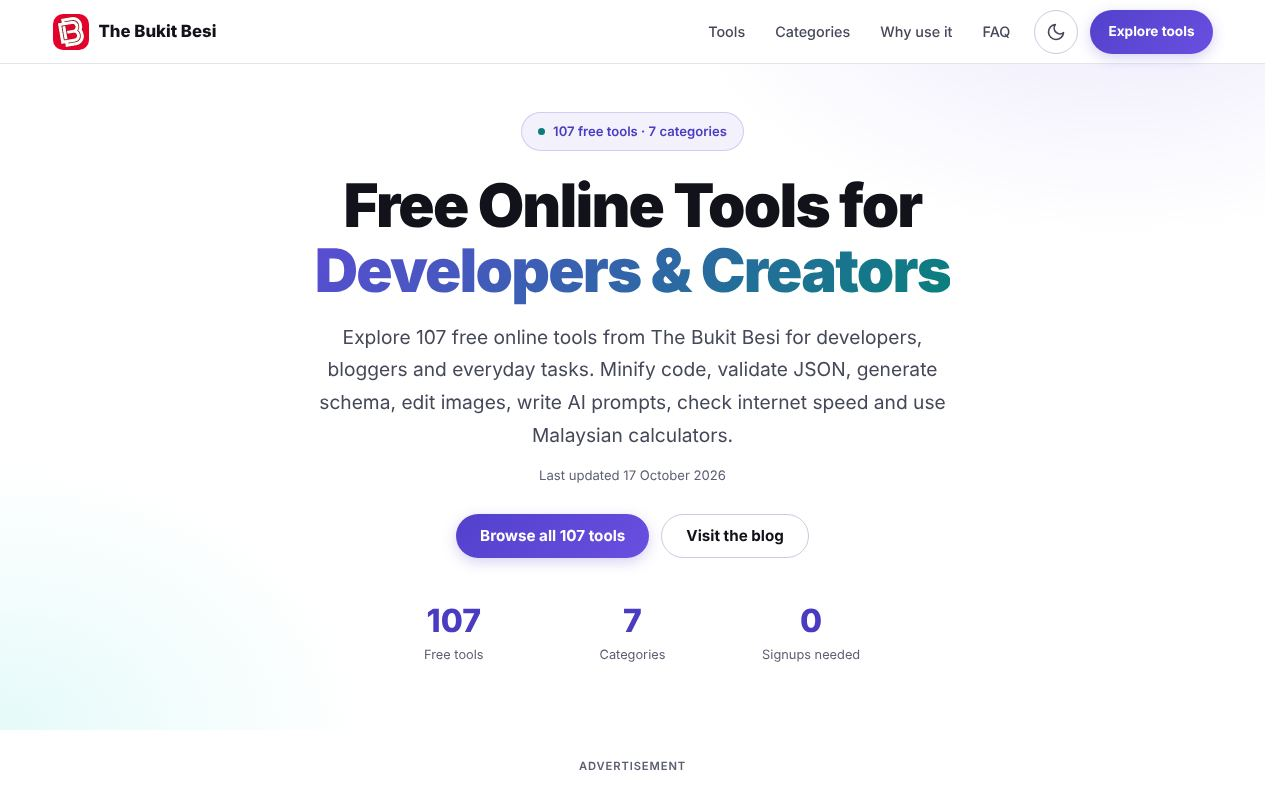
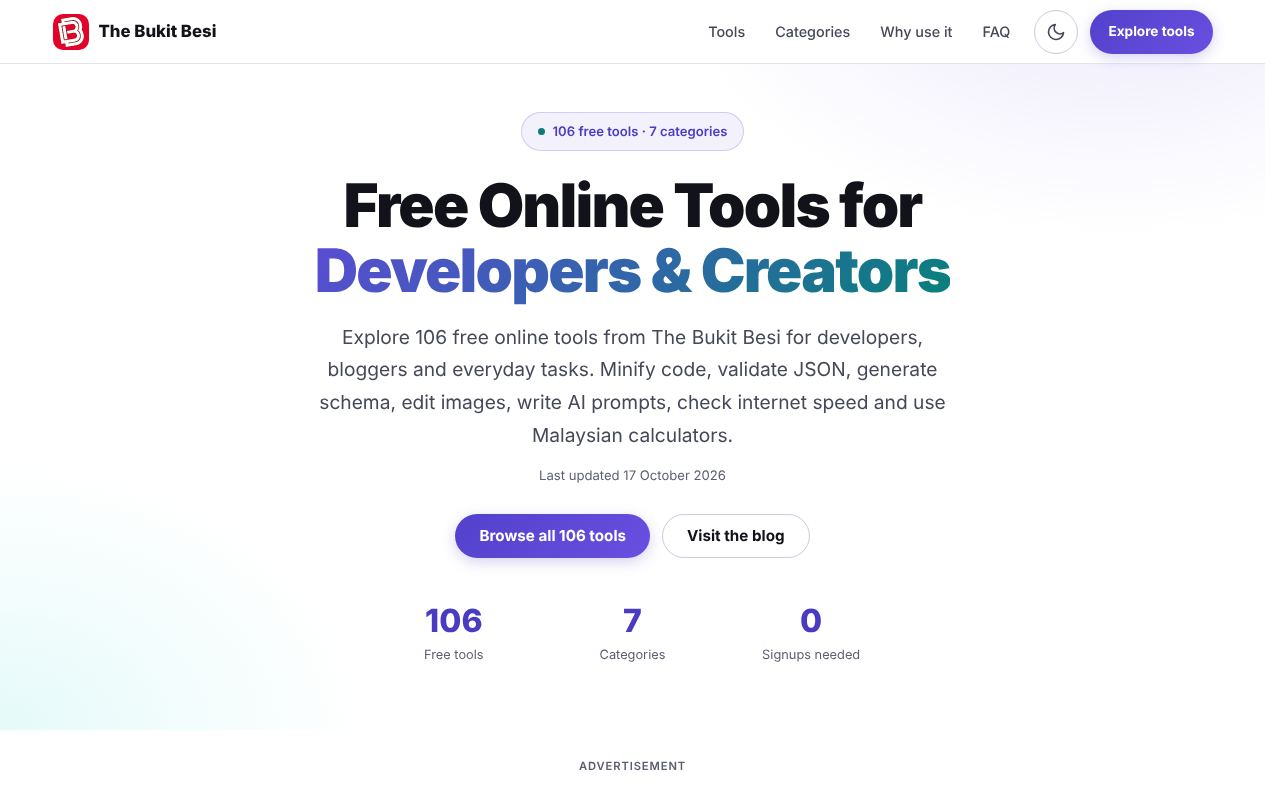
Refresh social card and README counts for 106 tools
Claude-Session: https://claude.ai/code/session_01ErmsZkFmBHvTPu7vGAJFj9

diff --git a/README.md b/README.md
@@ -1,11 +1,11 @@
-# The Bukit Besi Tools — 107 Free Online Tools for Developers & Creators
+# The Bukit Besi Tools — 106 Free Online Tools for Developers & Creators
 
 [![Deploy](https://github.com/bukitbesi/the/actions/workflows/deploy.yml/badge.svg)](https://github.com/bukitbesi/the/actions/workflows/deploy.yml)
 [![Live site](https://img.shields.io/badge/live-tool.thebukitbesi.com-6c5ce7)](https://tool.thebukitbesi.com/)
 [![License: All rights reserved](https://img.shields.io/badge/license-all%20rights%20reserved-d63031)](LICENSE)
 
 **[tool.thebukitbesi.com](https://tool.thebukitbesi.com/)** is a free, installable
-directory of 107 browser-based tools from [The Bukit Besi](https://www.thebukitbesi.com/):
+directory of 106 browser-based tools from [The Bukit Besi](https://www.thebukitbesi.com/):
 code minifiers, SEO and schema generators, writing utilities, image editors,
 AI prompt tools and Malaysian calculators (zakat, faraid, BMI and more).
 No signup, no tracking scripts, works offline after one visit.
